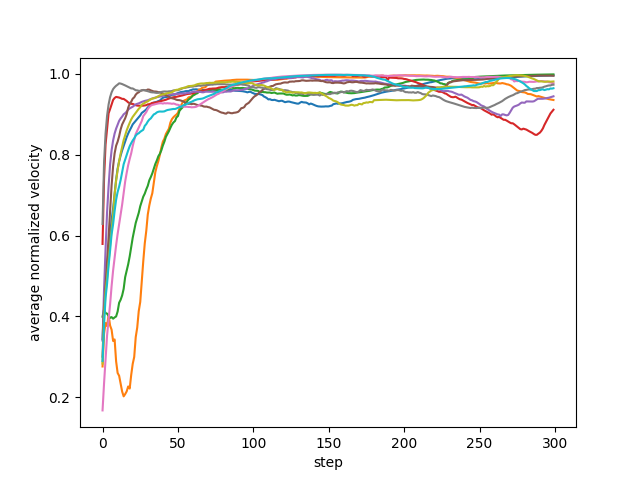
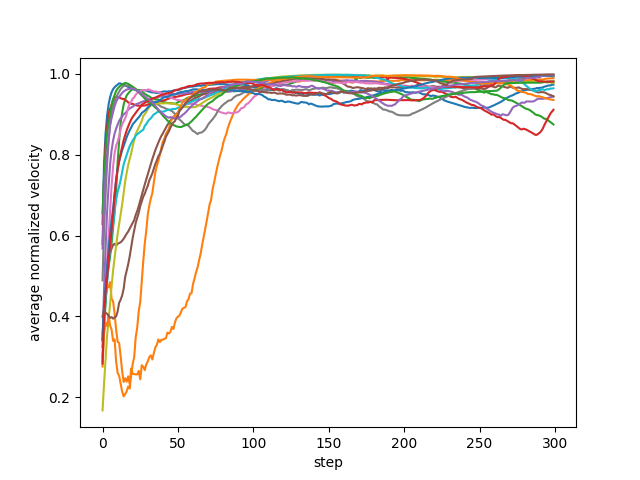
Add multiprocessing

diff --git a/boids.py b/boids.py
@@ -1,7 +1,7 @@
 import matplotlib.pyplot as plt
 import numpy as np
 import pygame
-
+import multiprocessing as mp
 
 
 class Scene:
@@ -20,6 +20,9 @@ class Scene:
         self.alignment = alignment
         self.speed = speed
         self.interaction_radius_squared = interaction_radius**2
+
+        # initialize swarm
+        self.swarm = np.array([Particle(self.w, self.h) for _ in range(self.N)])
 
         # initialize gui related info
         self.gui = gui
@@ -65,10 +68,7 @@ class Scene:
             [particle.dir.normalize() for particle in self.swarm], pygame.Vector2(0, 0)
         ).magnitude() / self.N
 
-    def run(self, num_steps=300):
-        # initialize swarm
-        self.swarm = np.array([Particle(self.w, self.h) for _ in range(self.N)])
-
+    def run(self, num_steps=300, process_id=None, results=None):
         interrupt = False
         step = 0
 
@@ -88,6 +88,10 @@ class Scene:
             step += 1
 
         if self.gui: pygame.quit()
+
+        if process_id is not None:
+            results[process_id] = orders
+            return
 
         return orders
 
@@ -156,16 +160,39 @@ def plot_order(orders):
     plt.show()
 
 
+def run_repeated(
+    w, h, N, cohesion, seperation, alignment, speed, interaction_radius,
+    gui=True, fps=30, draw_size=5, num_steps=300, repetitions=mp.cpu_count(),
+):
+    manager = mp.Manager()
+    results = manager.dict()
+    jobs = []
+
+    scenes = [
+        Scene(
+            w=600, h=600, N=200, cohesion=100, seperation=30, alignment=1, speed=5, interaction_radius=100,
+            gui=False, fps=30
+        ) for _ in range(repetitions)
+    ]
+
+    for process_id in range(repetitions):
+        process = mp.Process(target=scenes[process_id].run, args=(num_steps, process_id, results))
+        jobs.append(process)
+        process.start()
+
+    for process in jobs:
+        process.join()
+
+    return results.values()
+
+
 def main():
     np.random.seed(0)  # for reproducability
 
-    scene = Scene(
+    orders = run_repeated(
         w=600, h=600, N=200, cohesion=100, seperation=30, alignment=1, speed=5, interaction_radius=100,
         gui=False, fps=30
     )
-
-    repetitions = 10
-    orders = [scene.run() for _ in range(10)]
     plot_order(orders)
 
 
